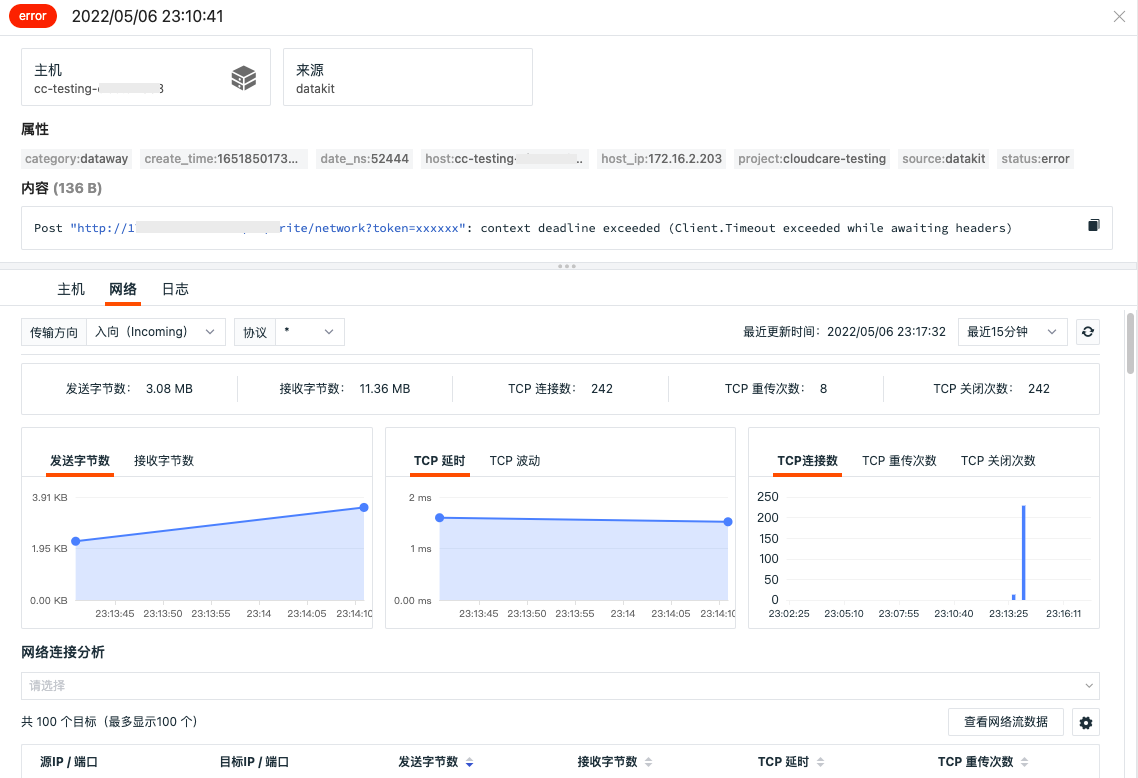
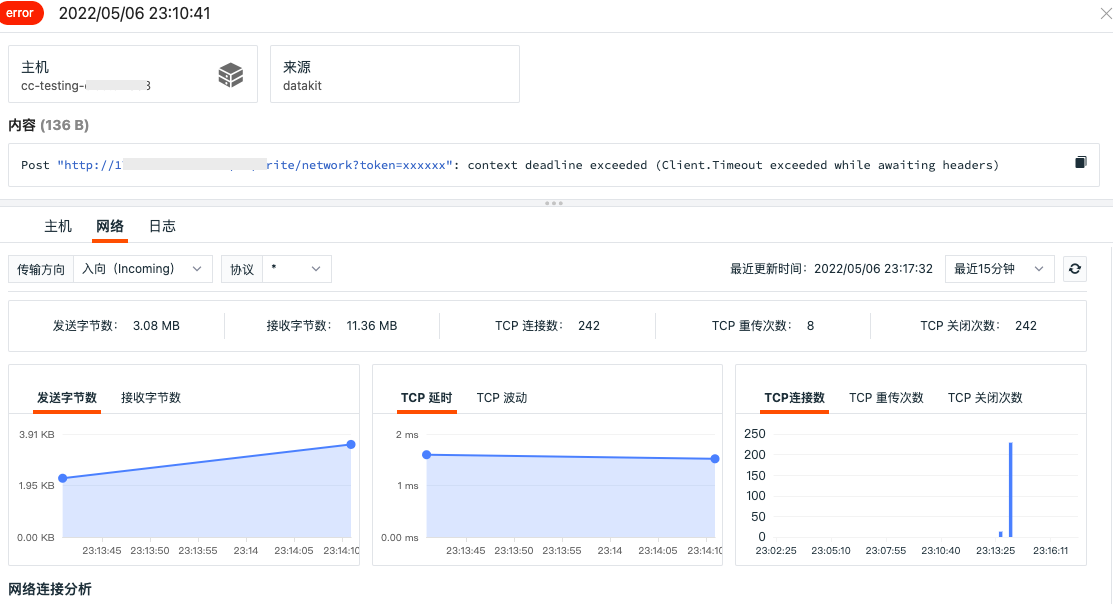
日志详情更新

diff --git a/docs/logs/explorer.md b/docs/logs/explorer.md
@@ -35,11 +35,9 @@
 
 - **扩展字段**
 
-
-
 扩展字段支持“复制”和“添加到筛选”进行快速筛选查看。
 
-![](img/2.log_2.png)
+![](img/2.log_detail_1.png)
 
 
 #### 关联主机
